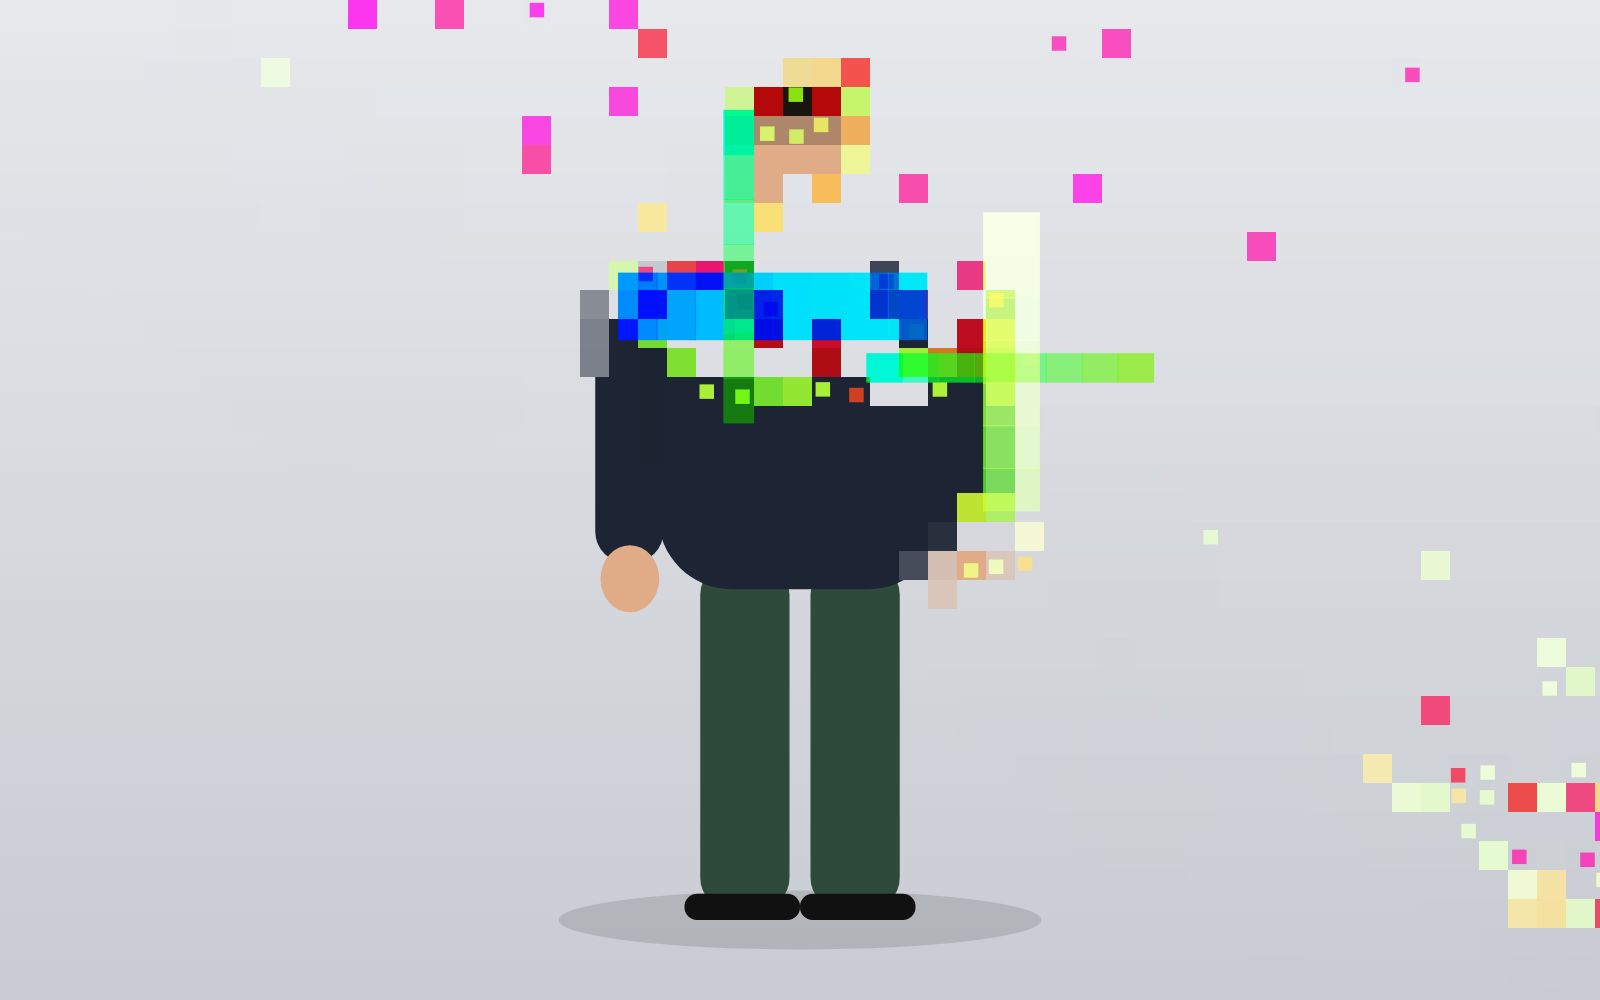
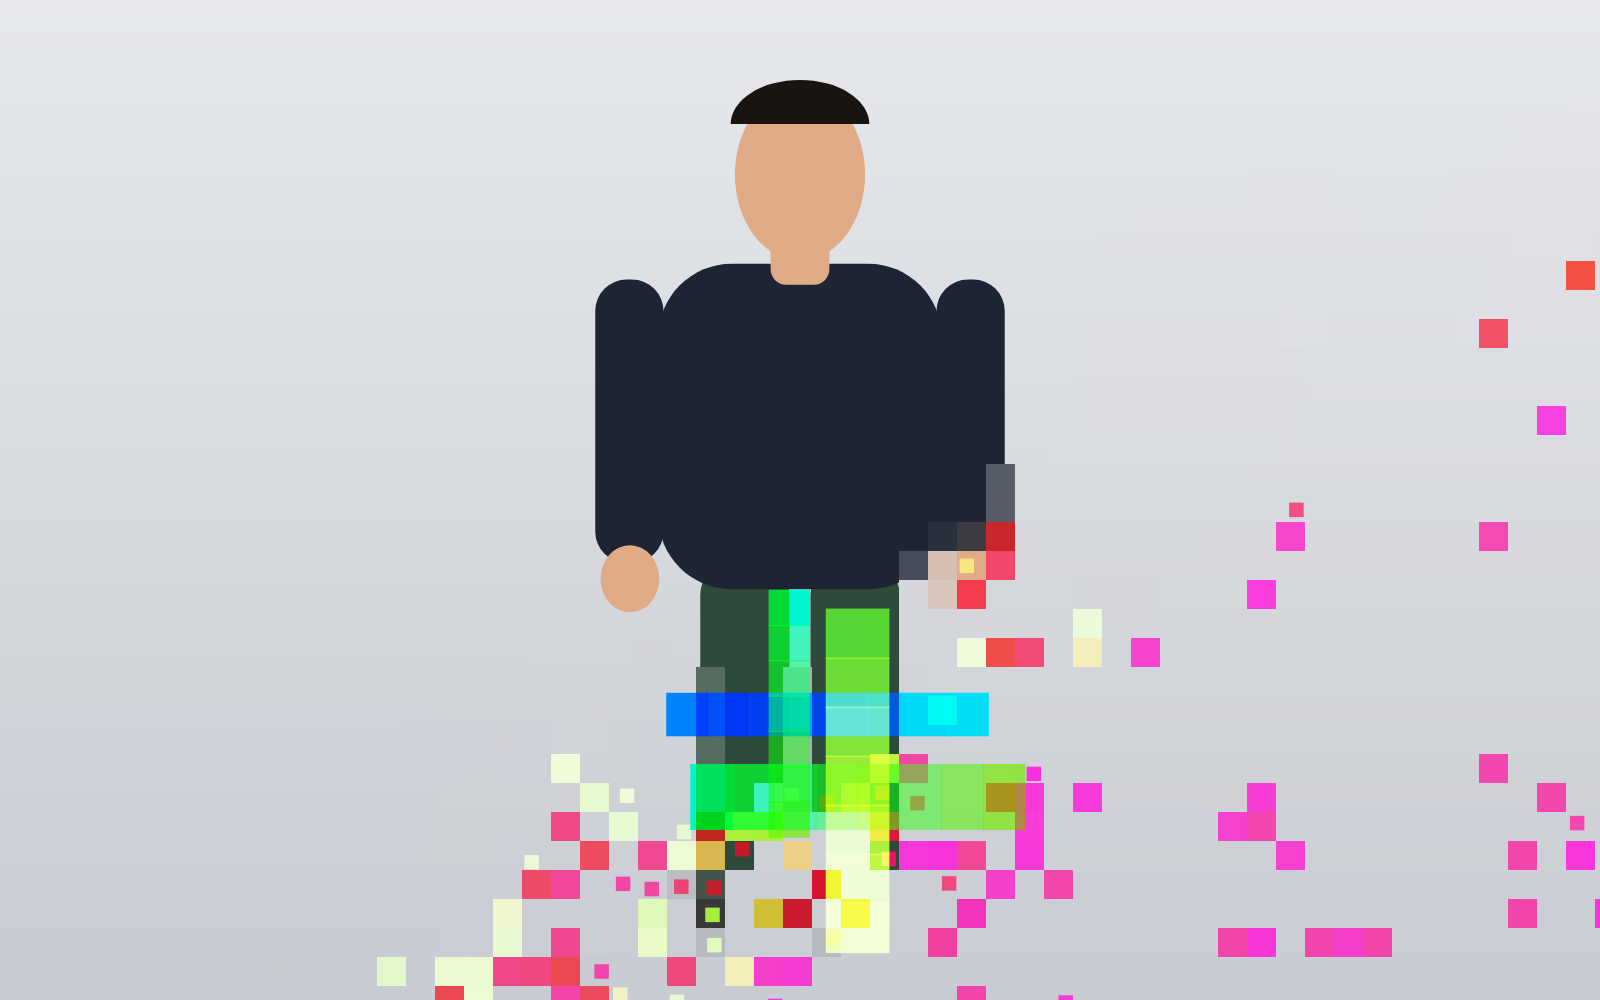
Modo figura: disolución hacia abajo/lados (conserva la cara), cruces en el cuerpo; fotos propias fuera del repo
Claude-Session: https://claude.ai/code/session_016ZNo35b44Yh7ZNd6P6WE65

diff --git a/app/engine.js b/app/engine.js
@@ -297,13 +297,14 @@ const ramp = (fams, t) => {
     const avg = (x, y, s) => { let r = 0, g = 0, b = 0, n = 0; for (let j = 0; j < 4; j++) for (let i = 0; i < 4; i++) { const c = at(x + (i + 0.5) * s / 4, y + (j + 0.5) * s / 4); r += c[0]; g += c[1]; b += c[2]; n++; } return [r / n, g / n, b / n]; };
     const bgc = avg(4, 4, 8);
     const fams = o.fams || subset(R, 4);
-    const ang = R.pick([0, Math.PI, -Math.PI / 4, Math.PI / 4]) + R.range(-0.3, 0.3), ax = Math.cos(ang), ay = Math.sin(ang);
+    // el eje de disolución apunta hacia abajo/los lados: la parte alta (cara) se conserva
+    const ang = R.pick([Math.PI / 2, Math.PI / 3, 2 * Math.PI / 3, Math.PI / 4, 3 * Math.PI / 4]) + R.range(-0.15, 0.15), ax = Math.cos(ang), ay = Math.sin(ang);
     const cell = Math.round(H / 34);
     ctx.drawImage(src, 0, 0); // base fotográfica
     for (let gy = 0; gy < H; gy += cell) for (let gx = 0; gx < W; gx += cell) {
       const px0 = (gx - W / 2) / W, py0 = (gy - H / 2) / H;
-      const t = clamp((px0 * ax + py0 * ay) * 1.3 + 0.5 + (N(gx / 140, gy / 140) - 0.5) * 0.5); // 0..1 a lo largo del eje de disolución
-      const p = clamp((t - 0.4) / 0.6);
+      const t = clamp((px0 * ax + py0 * ay) * 1.3 + 0.5 + (N(gx / 140, gy / 140) - 0.5) * 0.3); // 0..1 a lo largo del eje de disolución
+      const p = clamp((t - 0.5) / 0.5);
       if (p < 0.04) continue;
       const rnd = R();
       const c = avg(gx, gy, cell), isBg = Math.hypot(c[0] - bgc[0], c[1] - bgc[1], c[2] - bgc[2]) < 38;
@@ -322,7 +323,7 @@ const ramp = (fams, t) => {
     for (let i = 0; i < nc; i++) {
       const fa = fams[i % fams.length], fb = fams[(i + 1) % fams.length];
       ctx.globalCompositeOperation = 'hard-light';
-      plus(ctx, W * R.range(0.4, 0.6) + (R() < 0.5 ? -1 : 1) * W * 0.08, H * R.range(0.3, 0.6), H * 0.2, { R, famH: fa, famV: fb, steps: 8 });
+      plus(ctx, W * R.range(0.3, 0.7), H * R.range(0.58, 0.82), H * 0.2, { R, famH: fa, famV: fb, steps: 8 });
       ctx.globalCompositeOperation = 'source-over';
     }
   }

diff --git a/app/index.html b/app/index.html
@@ -3,5 +3,9 @@
 <canvas id="c" width="1600" height="1000"></canvas>
 <script src="engine.js"></script>
 <script>const load=(u)=>new Promise((ok,ko)=>{const i=new Image();i.onload=()=>ok(i);i.onerror=ko;i.src=u;});
-window.draw=async(spec)=>{if(spec.foto)spec.image=await load(spec.foto);return Identidad.render(document.getElementById('c'),spec);};
+window.draw=async(spec)=>{const c=document.getElementById('c');
+if(spec.foto)spec.image=await load(spec.foto);
+// con foto, el lienzo adopta su proporción (alto 1400); sin foto, 1600x1000
+if(spec.image){c.height=1400;c.width=Math.round(1400*spec.image.width/spec.image.height);}else{c.width=1600;c.height=1000;}
+return Identidad.render(c,spec);};
 window.png=()=>document.getElementById('c').toDataURL('image/png');</script>
